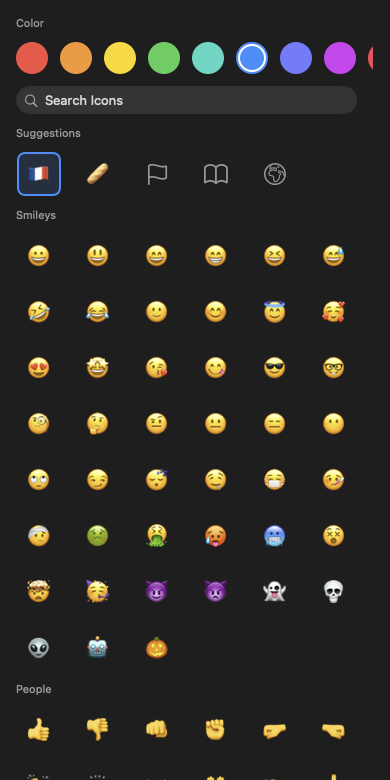
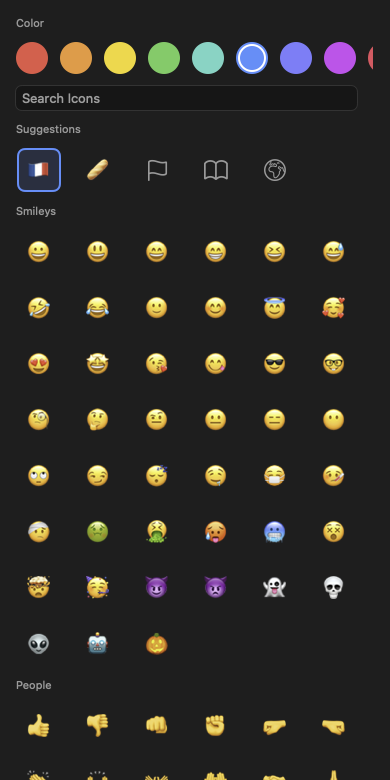
feat: show the system color well on Mac
Custom color is a visible ColorPicker well on Mac. iOS keeps the
spectrum swatch over a hidden picker.

diff --git a/Sources/IconPickerKit/IconColorStrip.swift b/Sources/IconPickerKit/IconColorStrip.swift
@@ -1,5 +1,15 @@
 import SwiftUI
 
+enum IconPickerCustomColorStyle {
+    static var usesSystemWell: Bool {
+        #if os(macOS)
+        true
+        #else
+        false
+        #endif
+    }
+}
+
 struct IconColorStrip: View {
     @Environment(\.colorScheme) private var colorScheme
     @Binding var color: IconPickerColor
@@ -42,26 +52,36 @@ struct IconColorStrip: View {
         let binding = Binding<Color>(
             get: { self.color.color },
             set: { self.color = .custom($0) })
-        return ZStack {
-            Circle()
-                .fill(
-                    AngularGradient(
-                        colors: [.red, .orange, .yellow, .green, .cyan, .blue, .purple, .pink, .red],
-                        center: .center))
-            ColorPicker(self.customLabel, selection: binding, supportsOpacity: false)
-                .labelsHidden()
-                .opacity(0.02)
-                .scaleEffect(2)
-        }
-        .frame(width: self.swatchSize, height: self.swatchSize)
-        .clipShape(Circle())
-        .overlay {
-            if self.color.isCustom {
-                Circle()
-                    .strokeBorder(
-                        IconPickerSwatchRing.color(for: self.color.color, scheme: self.colorScheme),
-                        lineWidth: 2)
-                    .frame(width: self.swatchSize - 4, height: self.swatchSize - 4)
+        return Group {
+            if IconPickerCustomColorStyle.usesSystemWell {
+                ColorPicker(self.customLabel, selection: binding, supportsOpacity: false)
+                    .labelsHidden()
+                    .frame(width: self.swatchSize, height: self.swatchSize)
+            } else {
+                ZStack {
+                    Circle()
+                        .fill(
+                            AngularGradient(
+                                colors: [.red, .orange, .yellow, .green, .cyan, .blue, .purple, .pink, .red],
+                                center: .center))
+                    ColorPicker(self.customLabel, selection: binding, supportsOpacity: false)
+                        .labelsHidden()
+                        .opacity(0.02)
+                        .scaleEffect(2)
+                }
+                .frame(width: self.swatchSize, height: self.swatchSize)
+                .clipShape(Circle())
+                .overlay {
+                    if self.color.isCustom {
+                        Circle()
+                            .strokeBorder(
+                                IconPickerSwatchRing.color(
+                                    for: self.color.color,
+                                    scheme: self.colorScheme),
+                                lineWidth: 2)
+                            .frame(width: self.swatchSize - 4, height: self.swatchSize - 4)
+                    }
+                }
             }
         }
         .iconPickerHover()

diff --git a/Tests/IconPickerKitTests/IconPickerKitTests.swift b/Tests/IconPickerKitTests/IconPickerKitTests.swift
@@ -354,6 +354,14 @@ import Testing
     #expect(sections.count > 1)
 }
 
+@Test func macCustomColorUsesSystemWell() {
+    #if os(macOS)
+    #expect(IconPickerCustomColorStyle.usesSystemWell)
+    #else
+    #expect(!IconPickerCustomColorStyle.usesSystemWell)
+    #endif
+}
+
 @Test func macSearchUsesRoundedBorder() {
     #if os(macOS)
     #expect(IconPickerSearchStyle.usesRoundedBorder)

diff --git a/CHANGELOG.md b/CHANGELOG.md
@@ -25,6 +25,7 @@ All notable changes to IconPickerKit are recorded here. The format follows
 - Mac search uses the system rounded-border field. iOS keeps the in-content capsule.
 - `IconPickerRow` opens one mixed emoji and SF Symbol catalog popover.
 - Opening that popover focuses search. Escape dismisses it.
+- On Mac, custom color is a visible system color well. iOS keeps the spectrum swatch.
 - `IconPickerView` shows one meaning-grouped catalog of emoji and SF Symbols. No Emojis/Symbols mode switch.
 - Preview is cell-sized; search sits under the color strip, above the catalog.
 - No hero preview. Opening the picker scrolls the current icon into view.
